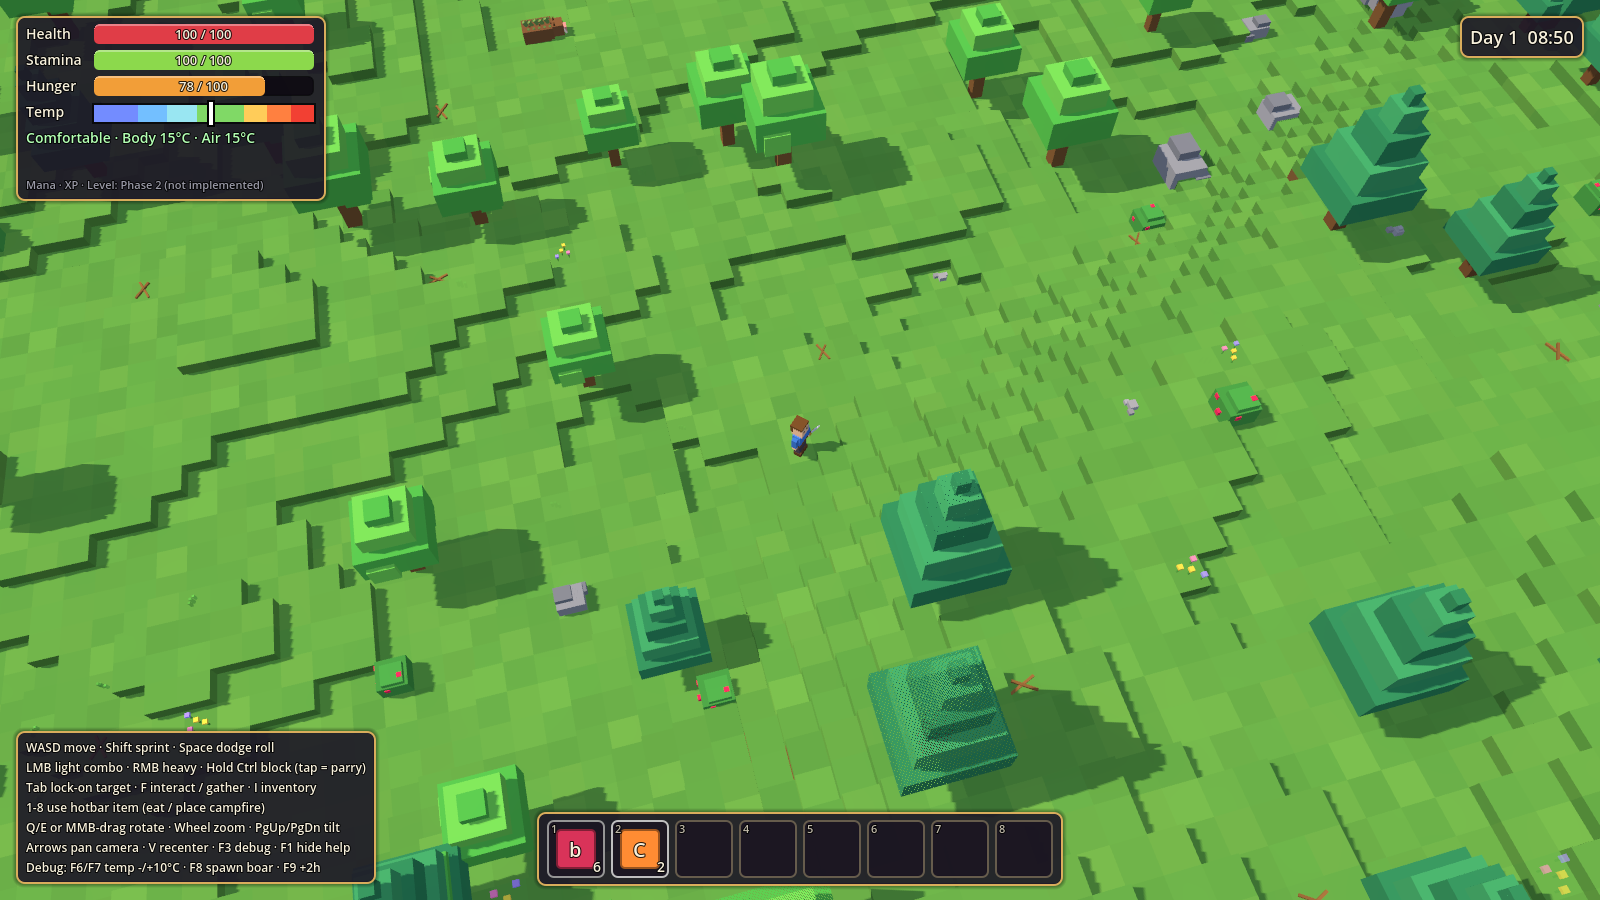
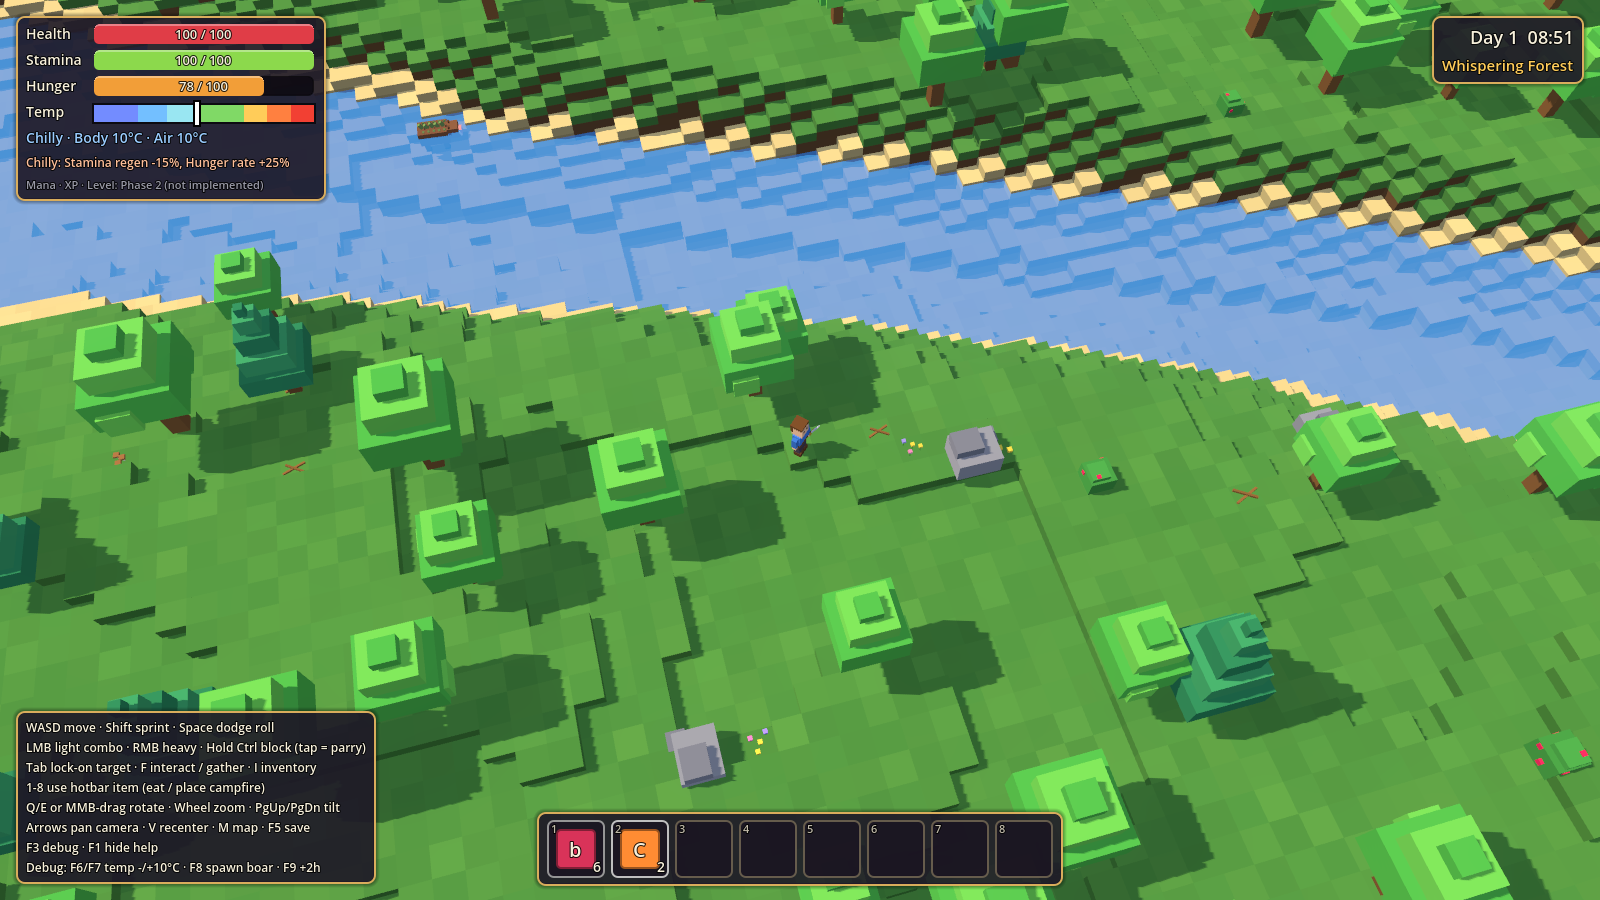
Wiggle biome borders; refresh screenshots for Milestone 2
Adds small-scale jitter to biome selection so borders don't follow the
locally straight climate contours, and updates README screenshots
(biomes, caves, world map, main menu).

Claude-Session: https://claude.ai/code/session_01WR282Drfw48Z7MMPmhZbjs

diff --git a/README.md b/README.md
@@ -13,8 +13,10 @@ roadmap toward classes, skills, crafting, dungeons, settlements, building and a 
 | Sunscorch Desert | Stonecrown Mountains | Crystal Glade |
 |---|---|---|
 | ![Desert](docs/screenshots/biome_desert.png) | ![Mountains](docs/screenshots/biome_mountains.png) | ![Crystal](docs/screenshots/biome_crystal_glade.png) |
-| **The Deeps (caves)** | **World map** | **Boar charge telegraph** |
-| ![Cave](docs/screenshots/cave_inside.png) | ![Map](docs/screenshots/world_map.png) | ![Charge](docs/screenshots/04a_boar_charge_telegraph.png) |
+| **Murk Swamp** | **The Deeps (caves)** | **World map (M)** |
+| ![Swamp](docs/screenshots/biome_swamp.png) | ![Cave](docs/screenshots/cave_inside.png) | ![Map](docs/screenshots/world_map.png) |
+| **Main menu** | **Boar charge telegraph** | |
+| ![Menu](docs/screenshots/main_menu.png) | ![Charge](docs/screenshots/04a_boar_charge_telegraph.png) | |
 
 ## Requirements
 
